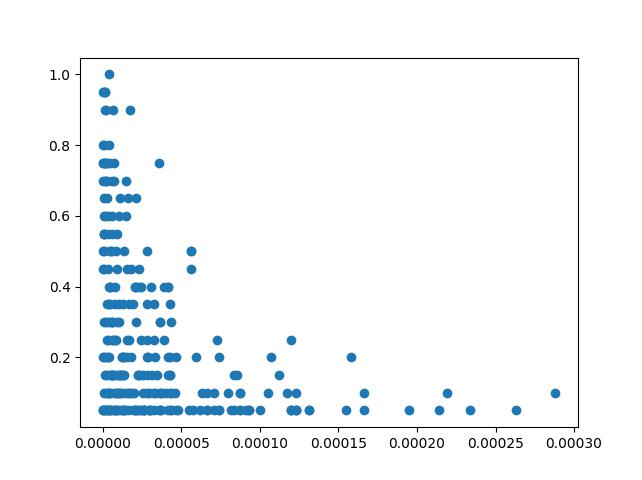
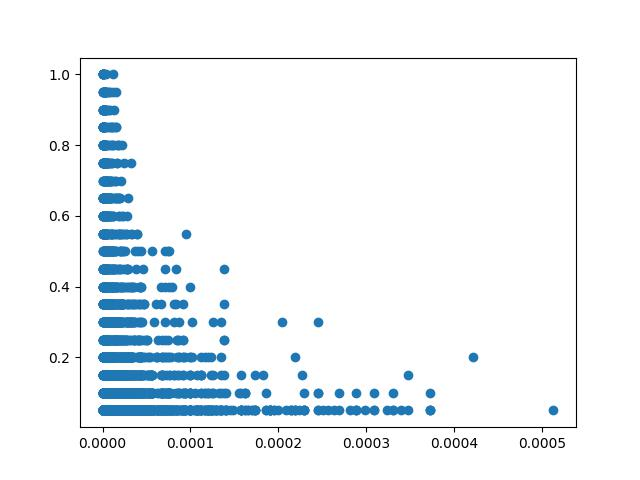
corrected part b scratch

diff --git a/Part B Scratch.py b/Part B Scratch.py
@@ -8,7 +8,7 @@ import matplotlib.pyplot as plt
 
 col_names = ['id', 'sentence', 'target_start', 'target_end', 'target_words', 'num_native', 'num_non_native',
              'difficult_native', 'difficult_non_native', 'label_bin', 'label_prob']
-df = pd.read_csv('data/original/english/WikiNews_Dev.tsv', sep='\t', names=col_names)
+df = pd.read_csv('data/original/english/WikiNews_Train.tsv', sep='\t', names=col_names)
 df.head()
 
 # 7. Extract basic statistics ------------------------------------------------------------------------------------------
@@ -27,8 +27,7 @@ len(df[df['target_words'].str.split(" ").apply(len) > 1])  # Number of instances
 df['target_words'].str.split(" ").apply(len).max()  # Maximum number of tokens for an instance
 
 # 8. Explore linguistic characteristics --------------------------------------------------------------------------------
-df8 = df[(df['target_words'].str.split(" ").apply(len) == 1) & (
-        df['label_bin'] != 0)]  # Filter single tokens, complex by at least 1 annotator, add to df8
+df8 = df[(df['target_words'].str.split(" ").apply(len) == 1) & (df['label_bin'] != 0)]  # Filter single tokens, complex by at least 1 annotator, add to df8
 len(df8)  # number of tokens
 
 
@@ -40,21 +39,28 @@ df8['token_length'] = df8['target_words'].apply(len)  # make a column with the c
 df8['word_freq'] = df8['target_words'].apply(apply_word_freq)  # make a column with the word freq of the target word
 
 target_words_list = df8['target_words'].to_list()
+target_words_list
 target_words_str = ' '.join([str(elem) for elem in target_words_list])
 target_words_str = target_words_str.replace('-', '')  # delete all the '-'s, join words
+target_words_str = target_words_str.replace('.', '')  # delete all the '-'s, join words
+target_words_str = target_words_str.replace('\\', '')  # delete all the '-'s, join words
+target_words_str = target_words_str.replace('/', '')  # delete all the '-'s, join words
+target_words_str = target_words_str.replace('’s', "")  # delete all the '-'s, join words
 
 doc = nlp(target_words_str)
+pos_text = []
 pos_tokens = []
 for token in doc:
+    pos_text.append(token.text)
     pos_tokens.append(token.pos_)
 df8['pos_tag'] = pos_tokens
 print(df8)
 
-print(np.corrcoef(df8['token_length'], df8['label_prob'])[0, 1])  #
-print(np.corrcoef(df8['word_freq'], df8['label_prob'])[0, 1])
+print(np.corrcoef(df8['token_length'], df8['label_prob'])[0, 1])  # corr token length and perceived complexity word
+print(np.corrcoef(df8['word_freq'], df8['label_prob'])[0, 1])  # corr word frequency and perceived complexity word
 
 plt.scatter(df8['token_length'], df8['label_prob'])
-plt.clf()
+plt.clf
 plt.scatter(df8['word_freq'], df8['label_prob'])
 plt.clf()
 plt.scatter(df8['word_freq'], df8['pos_tag'])

diff --git a/TODO_baselines.py b/TODO_baselines.py
@@ -41,12 +41,12 @@ if __name__ == '__main__':
     with open(train_path + "labels.txt") as label_file:
         train_labels = label_file.readlines()
 
-
     with open(dev_path + "sentences.txt") as dev_file:
         dev_sentences = dev_file.readlines()
 
     with open(train_path + "labels.txt") as dev_label_file:
         dev_labels = dev_label_file.readlines()
+
     with open(test_path + "sentences.txt") as testfile:
         testinput = testfile.readlines()
 
